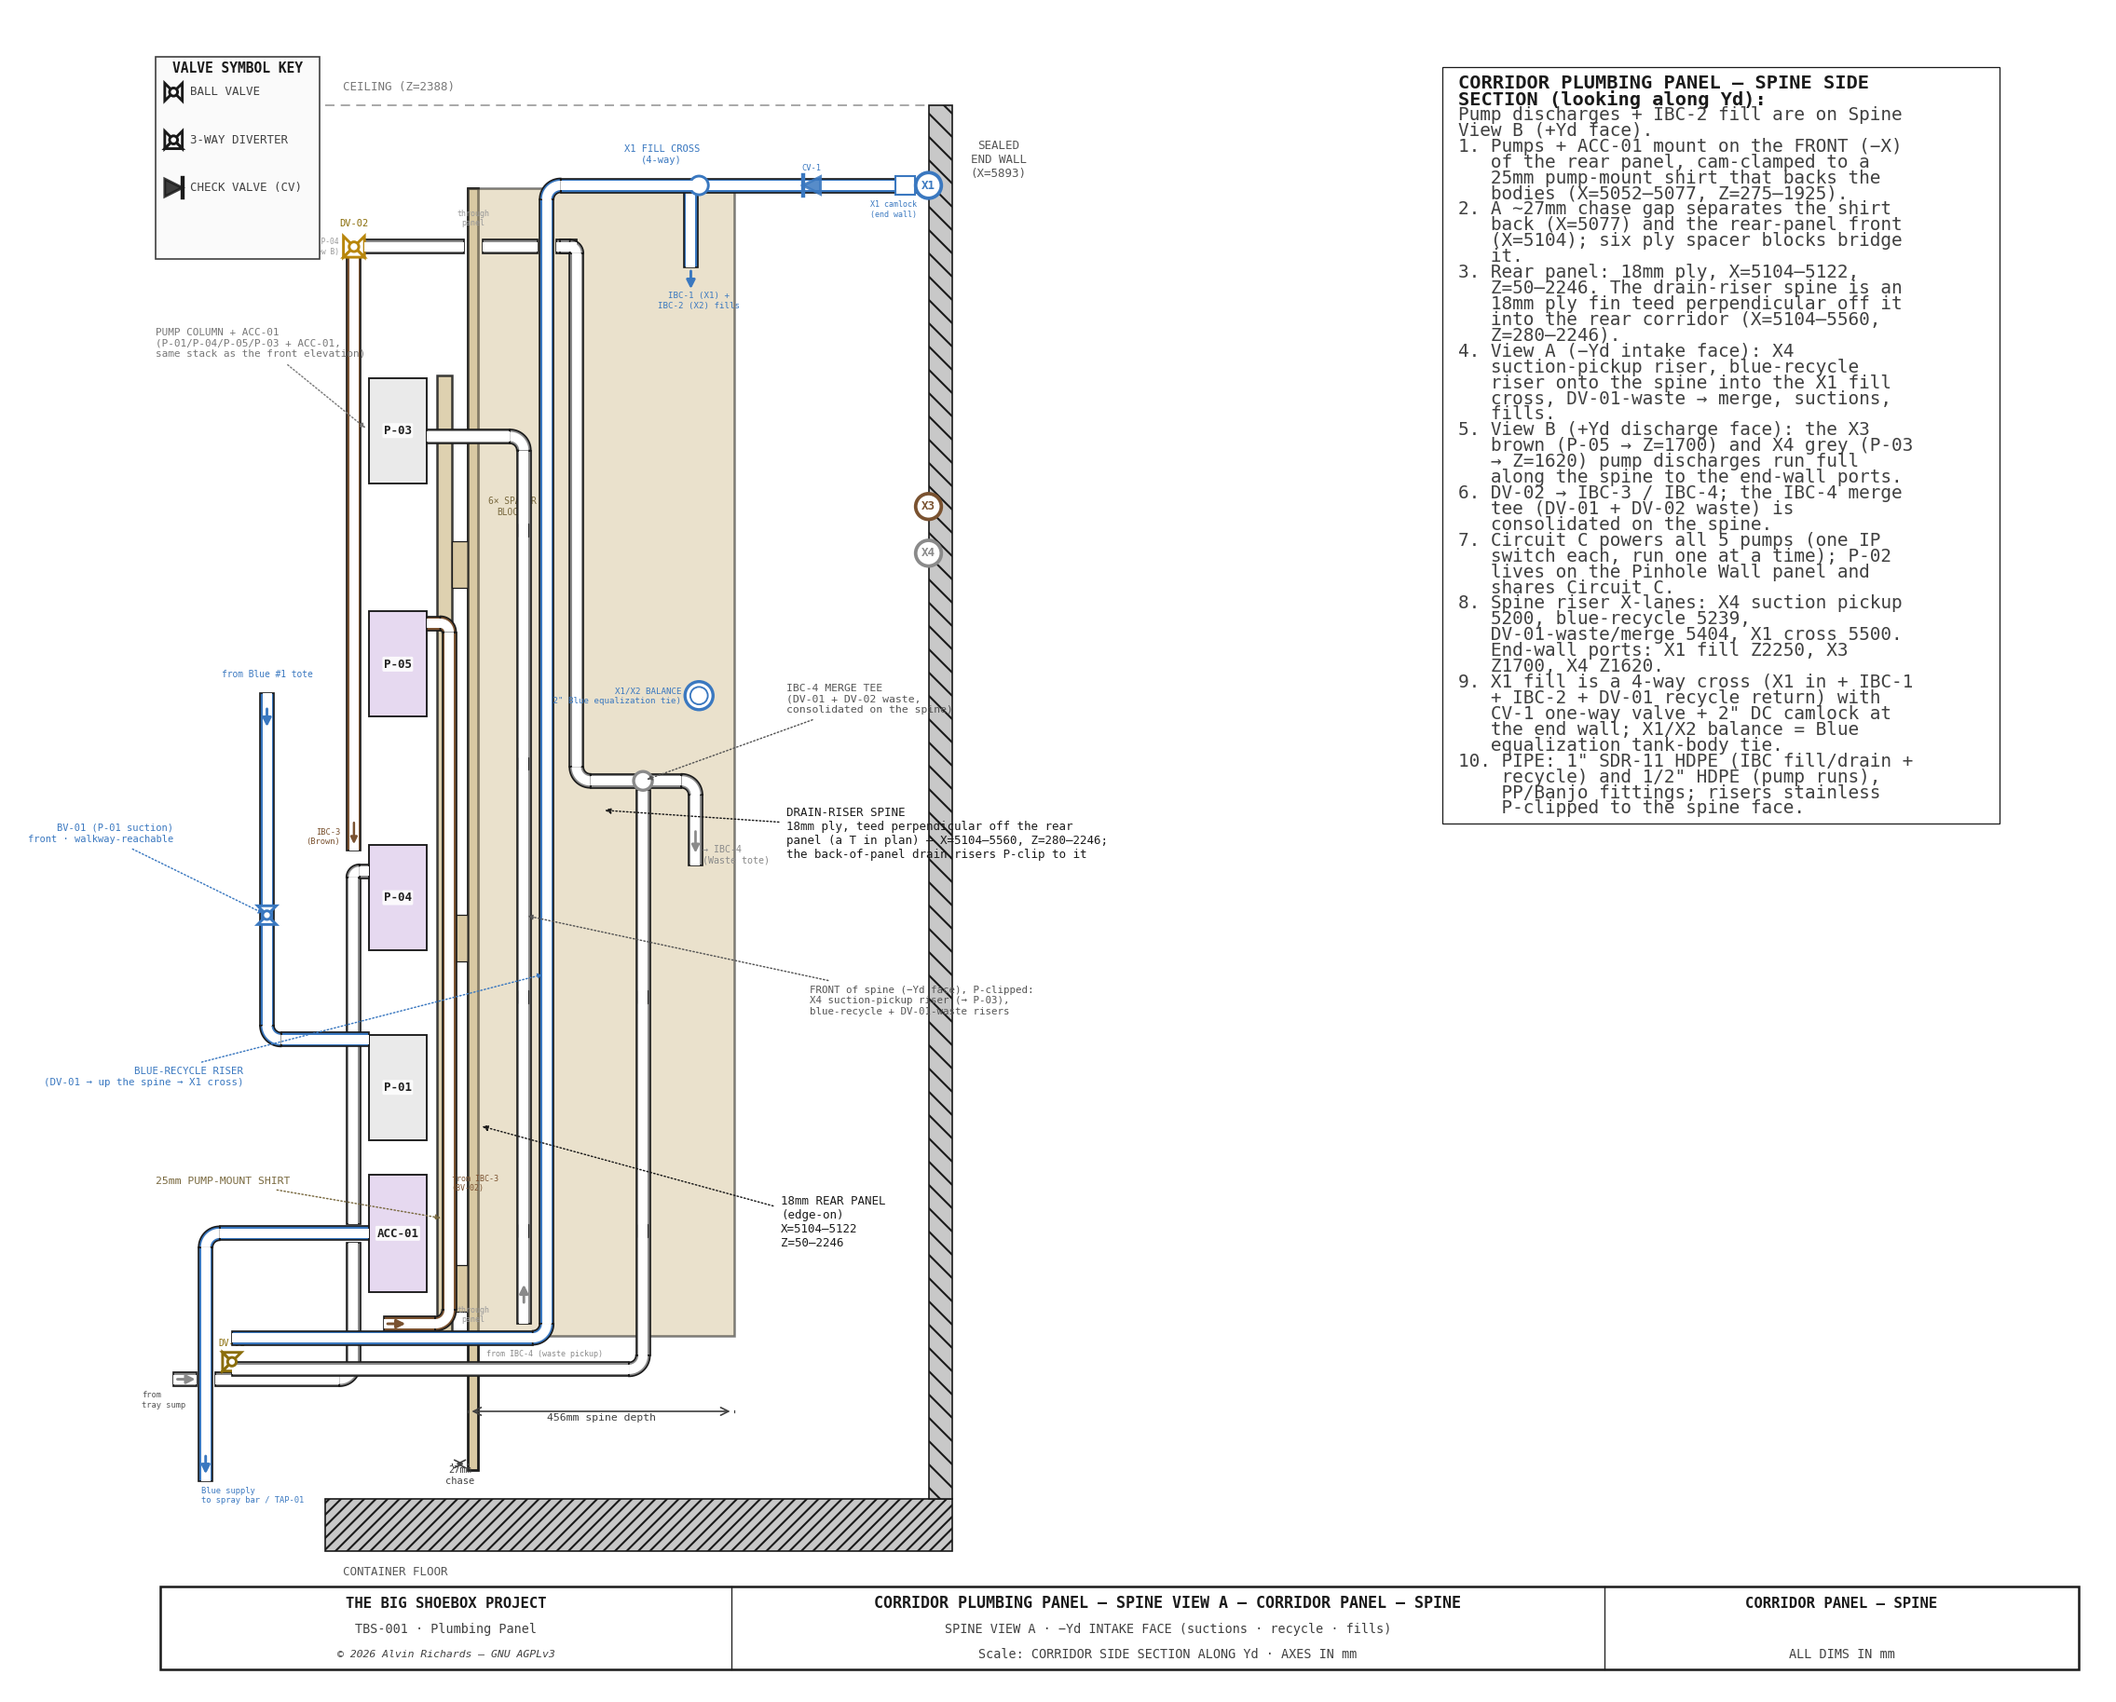
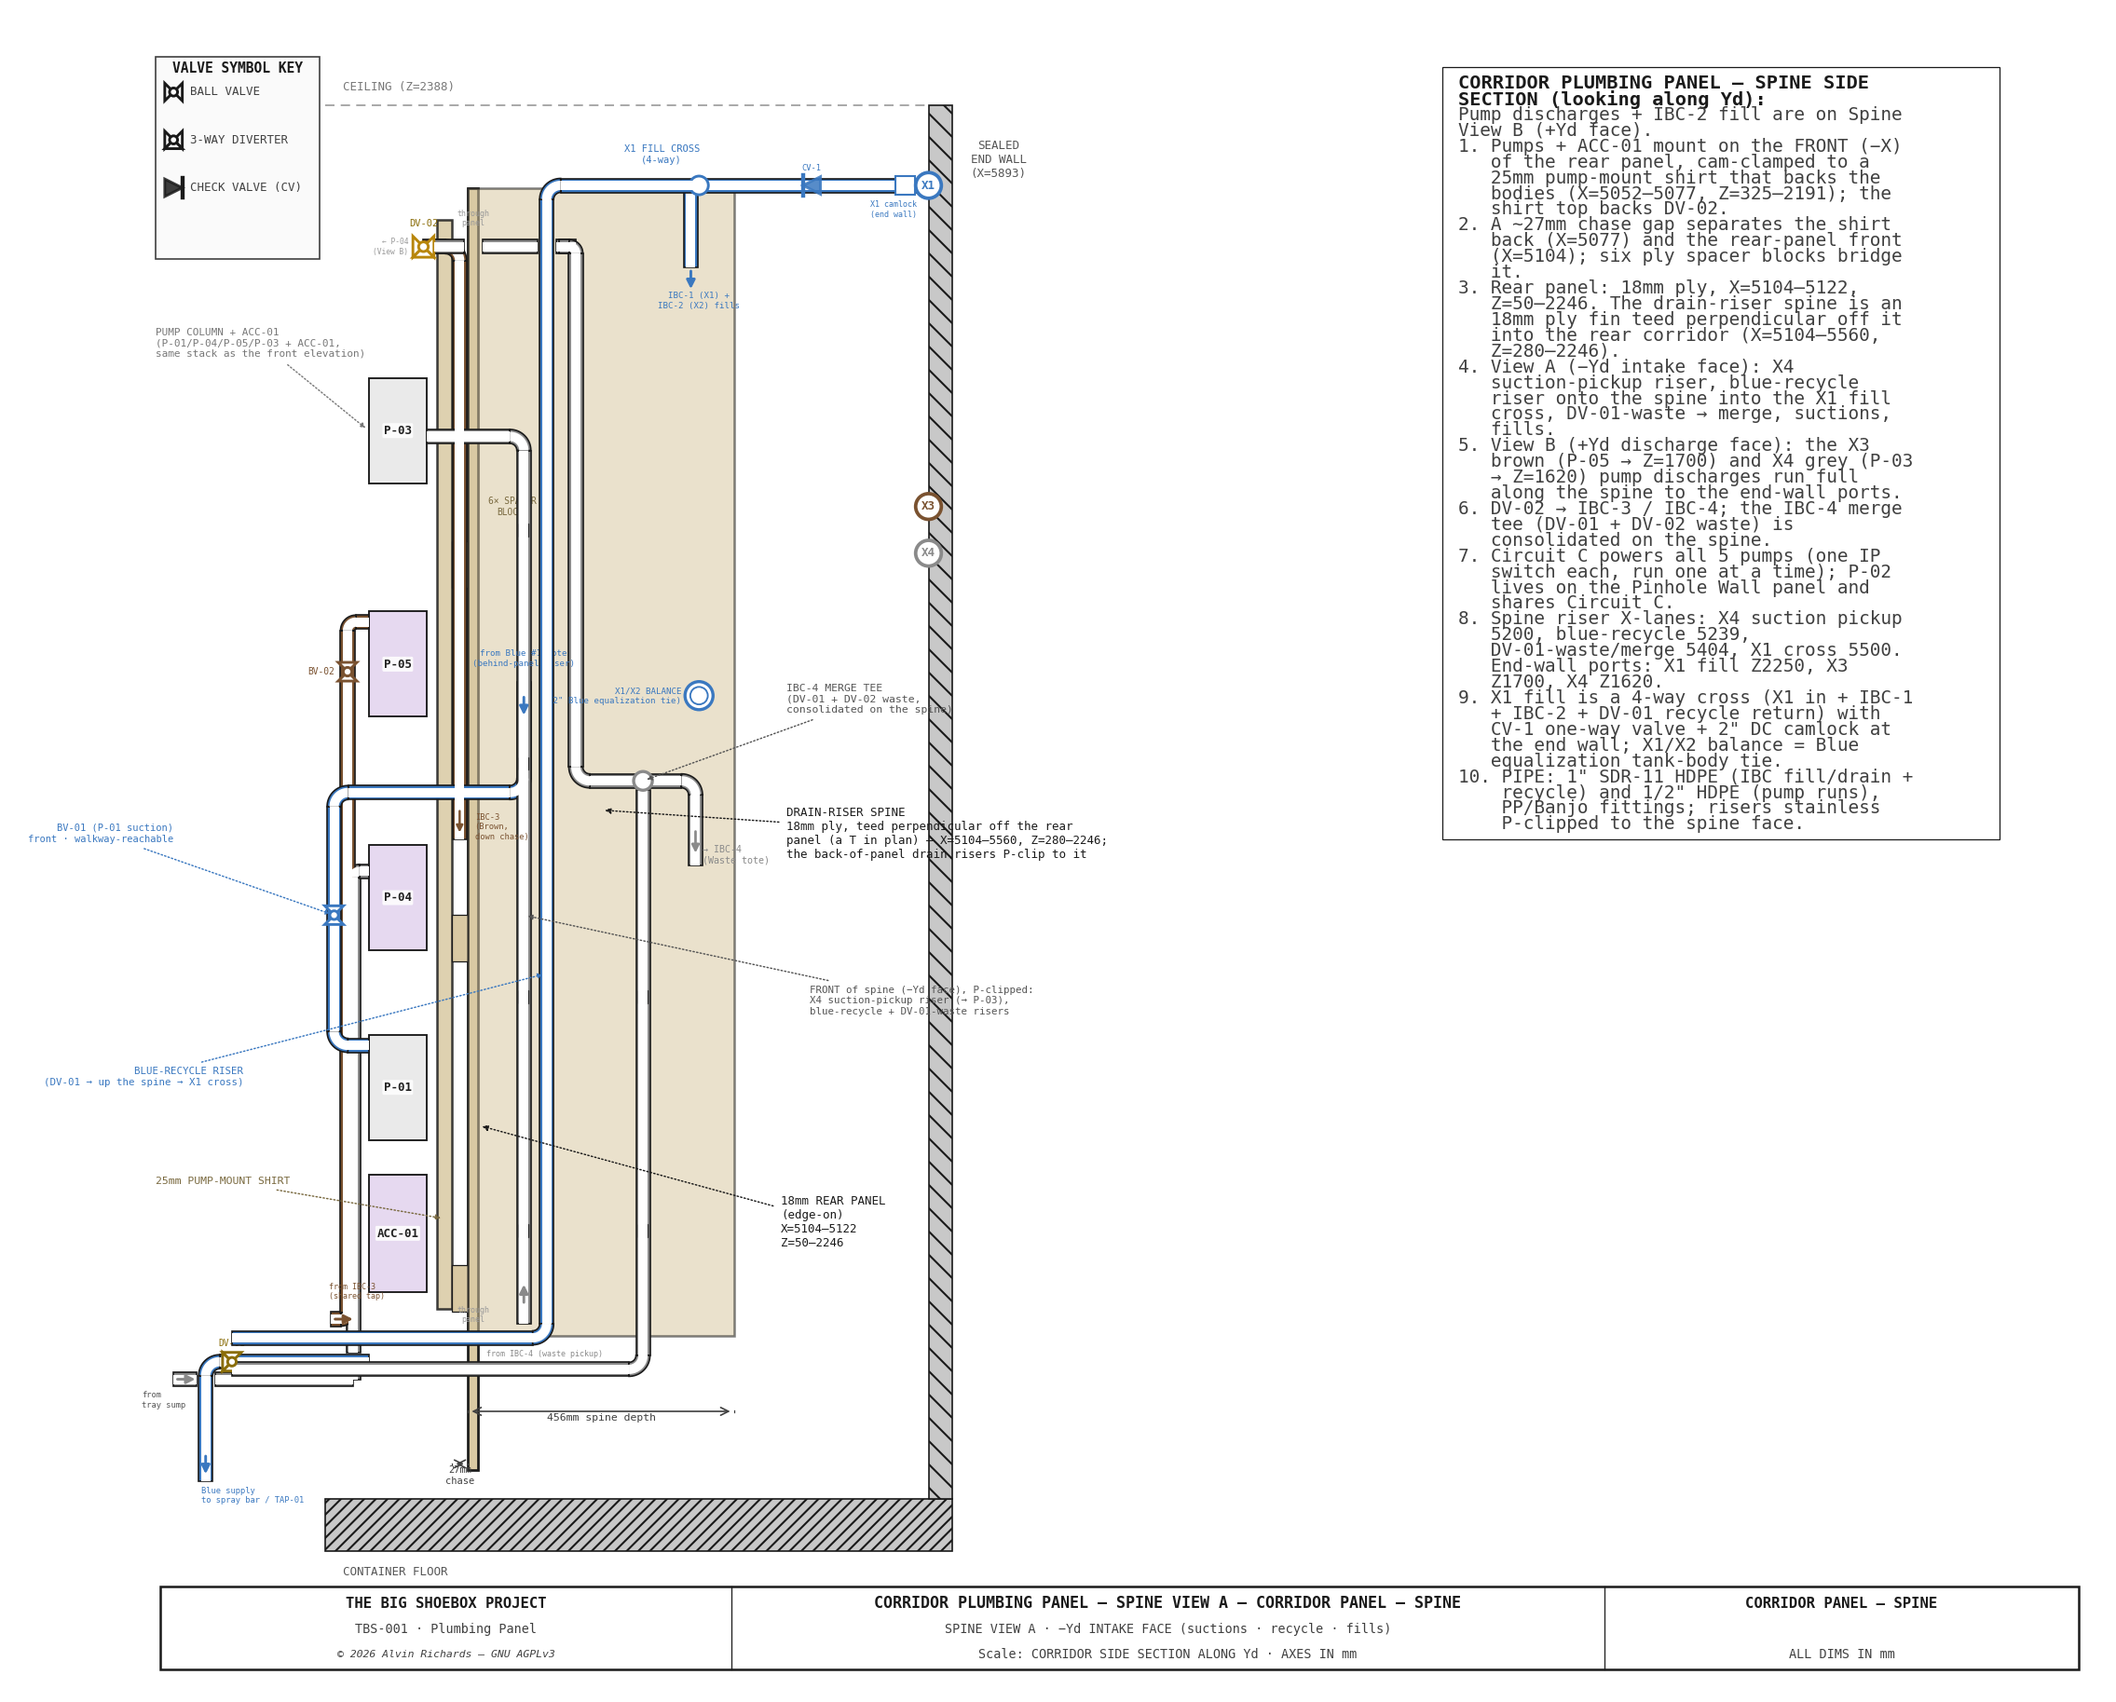
2D: cascade corridor routing into spine View A/B
Sync the spine side-sections to this session's 3D corridor changes (the
2D hardcodes geometry that must match massing_corridor_panel.py):

- DV02X 4909 -> 5028 (DV-02 mounted on the shirt); symbol + 3 legs follow.
- Shirt Z 275-1925 -> 325-2191 (bottom shortened, top raised to back DV-02).
- DV-02 brown output: straight down-port drop -> +X into the shirt/panel
  chase then down.
- BV-01 4760 -> 4875; blue P-01 suction redrawn as a forward access loop ->
  behind-panel riser (x5200) -> tote.
- BV-02 flipped to x4898 (operator side) + valve symbol added; brown tap
  start z300 -> 308.
- Blue supply trunk crossing z455 -> 235; P-04 suction gap-breaks realigned.
- Notes + stale comments updated.

Water-system schematic is topological (connectivity unchanged) - no edit.
Existing diagrams regenerated; no gallery registration needed.

diff --git a/src/generators/generate_panel_layout.py b/src/generators/generate_panel_layout.py
@@ -923,7 +923,8 @@ C_WALLB  = "#C8C8C8"
 PANX   = 5104                     # rear-panel front face (pumps hang -X off it)
 PANX1  = 5122                     # rear-panel rear face (18mm ply)
 SHIRTX0, SHIRTX1 = 5052, 5077     # 25mm pump-mount shirt (in FRONT of the panel)
-SHIRT_ZB, SHIRT_ZT = 275, 1925    # shirt Z extent
+SHIRT_ZB, SHIRT_ZT = 325, 2191    # shirt Z extent (bottom shortened to 325 to clear the
+                                  # raised P-05 inlet elbow; top raised to back DV-02 at DV_Z+DVB)
 SPX1   = 5560                     # drain-riser spine rear (X5104–5560)
 SPINE_ZB, SPINE_ZT = 280, 2246    # spine Z extent
 PAN_ZB, PAN_ZT = 50, 2246         # rear-panel Z extent
@@ -933,7 +934,7 @@ RX4    = 5200                     # X4 waste riser X (3D)
 RX_BLUE = 5239                    # blue-recycle riser X (onto the spine, to X1 cross)
 X1X    = 5500                     # X1 fill cross X (3D X1_TEE_X)
 MERGEX = 5404                     # IBC-4 merge tee X (3D MERGE4[0])
-DV02X  = 4909                     # 3W-DV-02 X (3D DV02X = PXC-75)
+DV02X  = 5028                     # 3W-DV-02 X (3D DV02X = SHIRT_X − DVB/2 = 5028.5; PXC mounts DV-02 on the shirt front)
 # End-wall port heights (3D drains_ports): X1 fill high, X3 Z1700, X4 Z1620
 X1_PORT_Z, X3_PORT_Z, X4_PORT_Z = EXT_FILL_1_H, 1700, 1620
 # Pump / ACC stack on the shirt front (single column, projected along Yd)
@@ -1119,13 +1120,17 @@ def spine_view(side):
         axb.text(DV01X, 258, "DV-01", fontsize=4.6, ha="center",
                  va="bottom", color="#8A6D08", zorder=13, **FB)
         # P-01 suction: P-01 IN → −X to BV-01 (front of the corridor, walkway-
-        # reachable, Z≈1000) → up toward the Blue tote.
-        BV01X = 4760
-        _pipe([PUMP_FRONT_X, BV01X, BV01X], [787, 787, 1380], C_BLUEB, zorder=11)
+        # reachable, Z≈1000) → UP the front vertical to the loop top → +X back
+        # through the shirt + panel → up the behind-panel riser to the Blue tote.
+        BV01X = 4875                                       # 3D bvx = FRONT_X+221
+        BLUE_BEHIND_X = 5200                               # 3D beh_x — behind-panel riser
+        BLUE_LOOPZ = 1210                                  # 3D loopz — loop top (P-04↔P-05 gap)
+        _pipe([PUMP_FRONT_X, BV01X, BV01X, BLUE_BEHIND_X, BLUE_BEHIND_X],
+              [777, 777, BLUE_LOOPZ, BLUE_LOOPZ, 1400], C_BLUEB, zorder=11)
         valve_ball(axb, BV01X, 1000, 16, C_BLUEB, vert=True)
-        _flowhead(BV01X, 1360, "down", C_BLUEB)            # suction: Blue #1 tote → P-01
-        axb.text(BV01X, 1404, "from Blue #1 tote", fontsize=4.6, ha="center", va="bottom",
-                 color=C_BLUEB, zorder=13, **FB)
+        _flowhead(BLUE_BEHIND_X, 1380, "down", C_BLUEB)    # suction: Blue #1 tote → P-01
+        axb.text(BLUE_BEHIND_X, 1424, "from Blue #1 tote\n(behind-panel riser)", fontsize=4.4,
+                 ha="center", va="bottom", color=C_BLUEB, zorder=13, **FB)
         leader(axb, BV01X, 1000, 4600, 1140, "BV-01 (P-01 suction)\nfront · walkway-reachable",
                color=C_BLUEB, fs=5, ha="right", va="center", arrow_style="-|>", font=FB)
         # X4 suction PICKUP riser climbs the spine from the floor pickup to P-03.
@@ -1144,56 +1149,72 @@ def spine_view(side):
         # → IBC-1 (X1) fill stub off the cross (water continues down to IBC-1, off-section).
         _pipe([X1X - 14, X1X - 14], [X1_PORT_Z, X1_PORT_Z - 140], C_BLUEB, zorder=11)
         _flowhead(X1X - 14, X1_PORT_Z - 140, "down", C_BLUEB)   # fill: → IBC-1 tote (below)
-        # DV-02 — tray-drain diverter above the pump column.  Its input is the
-        # P-04 discharge (rear +Yd face, Spine View B); the two outputs sit on
-        # this −Yd face: BROWN drops to IBC-3 (down port), WASTE leaves the
-        # right port to the IBC-4 merge tee.  Symbol centred on the junction so
-        # both legs land on their ports.
+        # DV-02 — tray-drain diverter above the pump column (3D: run along Yd,
+        # branch z−).  Its input is the P-04 discharge (rear +Yd face, Spine View
+        # B), arriving at the junction.  Both outputs sit on this −Yd face and
+        # leave toward +X: BROWN runs +X into the shirt↔panel chase then drops to
+        # IBC-3; WASTE runs +X then drops to the IBC-4 merge tee.  DV-02 is now
+        # mounted on the raised shirt front (X5028).  Symbol centred on the junction.
         valve_3way(axb, DV02X, 2145, 18, "#B8860B", ports=("left", "right", "down"))
         axb.text(DV02X, 2145 + 32, "DV-02", fontsize=5, ha="center", va="bottom",
                  color="#8A6D08", zorder=14, **FB)
         axb.text(DV02X - 26, 2145, "← P-04\n(View B)", fontsize=3.8, ha="right",
                  va="center", color="#999", zorder=13, **FB)
-        # DV-02 BROWN output → IBC-3 (Brown): drops straight off the DOWN port.
-        _pipe([DV02X, DV02X], [2127, 1110], C_BROWNB, zorder=10)
-        axb.annotate("", xy=(DV02X, 1115), xytext=(DV02X, 1165),
+        # DV-02 BROWN output → IBC-3 (Brown): leaves the −Yd run port, runs +X into
+        # the ~27mm shirt↔panel chase (X≈5090), then DROPS down the chase to the
+        # IBC-3 entry level. (3D: down off the run port, +X to the chase, drop.)
+        BROWN_CHASE_X = 5090
+        _pipe([DV02X, BROWN_CHASE_X, BROWN_CHASE_X], [2145, 2145, 1130], C_BROWNB, zorder=10)
+        axb.annotate("", xy=(BROWN_CHASE_X, 1135), xytext=(BROWN_CHASE_X, 1185),
                      arrowprops=dict(arrowstyle="-|>", lw=1.2, mutation_scale=7, color=C_BROWNB), zorder=12)
-        axb.text(DV02X - 24, 1150, "IBC-3\n(Brown)", fontsize=4.2, ha="right", va="top",
+        axb.text(BROWN_CHASE_X + 26, 1175, "IBC-3\n(Brown,\ndown chase)", fontsize=4.2, ha="left", va="top",
                  color=C_BROWNB, zorder=13, **FB)
-        # DV-02 WASTE output → leaves the RIGHT port, PENETRATES the rear panel
-        # near the spine top, then DROPS at X5290 into the merge tee's LEFT side.
-        _hpipe(2145, DV02X + 18, 5290, C_WASTEB, zorder=11, crosses=(PANX + 9, RX_BLUE))
+        # DV-02 WASTE output → leaves the +Yd run port, PENETRATES the rear panel
+        # near the spine top, then DROPS at X5289 (3D dvwx = MERGE4[0]−115) into the
+        # merge tee's LEFT side.
+        _hpipe(2145, DV02X + 18, 5289, C_WASTEB, zorder=11, crosses=(PANX + 9, RX_BLUE))
         axb.text(PANX + 9, 2178, "through\npanel", fontsize=4.0, ha="center", va="bottom",
                  color="#999", zorder=12, **FB)
-        # Lead the drop in from a short horizontal (from 5262, clear of the blue-
-        # riser crossing gap) so the top corner at (5290,2145) is an INTERIOR
+        # Lead the drop in from a short horizontal (from 5261, clear of the blue-
+        # riser crossing gap) so the top corner at (5289,2145) is an INTERIOR
         # vertex and draws an elbow fitting — the _hpipe ends there straight, so
         # without this the left turn into the DV-02 horizontal had no elbow.
-        _pipe([5262, 5290, 5290, MERGEX], [2145, 2145, 1230, 1230], C_WASTEB, zorder=11)
+        _pipe([5261, 5289, 5289, MERGEX], [2145, 2145, 1230, 1230], C_WASTEB, zorder=11)
         # IBC-4 (Waste) tote entry — the merge tee's RIGHT pipe.
         _pipe([MERGEX, 5494, 5494], [1230, 1230, 1085], C_WASTEB, zorder=11)
         axb.annotate("", xy=(5494, 1100), xytext=(5494, 1150),
                      arrowprops=dict(arrowstyle="-|>", lw=1.3, mutation_scale=8, color=C_WASTEB), zorder=12)
         axb.text(5506, 1120, "→ IBC-4\n(Waste tote)", fontsize=4.8, ha="left", va="top",
                  color=C_WASTEB, zorder=13, **FB)
-        # ACC-01 OUT → Blue supply trunk → spray bar / TAP-01.
-        _pipe([PUMP_FRONT_X, 4655, 4655], [455, 455, 30], C_BLUEB, zorder=9)
+        # ACC-01 OUT → Blue supply trunk → spray bar / TAP-01.  3D lowered the
+        # corridor-entry crossing to Z235 (DV-01's low lane) so the trunk is out
+        # of the operator's way at the mouth.
+        _pipe([PUMP_FRONT_X, 4655, 4655], [235, 235, 30], C_BLUEB, zorder=9)
         _flowhead(4655, 80, "down", C_BLUEB)              # supply: → spray bar / TAP-01 (off-section)
         axb.text(4648, -10, "Blue supply\nto spray bar / TAP-01", fontsize=4.2, ha="left",
                  va="bottom", color=C_BLUEB, zorder=12, **FB)
         # P-04 tray-drain SUCTION (← from the tray sump, far −X) up to P-04 IN.
-        # Gap-broken where it crosses the blue ACC-out / supply riser — at
-        # (4655,205) on the floor run and (4908,455) on the rise — so the blue
+        # Gap-broken where it crosses the blue supply trunk, now lowered to Z235:
+        # the floor run at Z205 crosses the blue VERTICAL drop at X4655, and the
+        # rise at X4908 crosses the blue HORIZONTAL trunk at Z235 — so the blue
         # reads continuous (skill_plumbing_drawing: the crossing run breaks).
-        _pipe([4600, 4655 - 16], [205, 205], C_WASTEB, zorder=9)
-        _pipe([4655 + 16, 4908, 4908], [205, 205, 455 - 16], C_WASTEB, zorder=9)
-        _pipe([4908, 4908, PUMP_FRONT_X], [455 + 16, 1075, 1075], C_WASTEB, zorder=9)
+        _pipe([4600, 4655 - 16], [205, 205], C_WASTEB, zorder=9)   # floor, before the blue drop at 4655
+        _pipe([4655 + 16, 4908], [205, 205], C_WASTEB, zorder=9)   # floor, after the blue drop
+        _pipe([4908, 4908], [205, 235 - 16], C_WASTEB, zorder=9)   # rise, up to the blue trunk crossing
+        _pipe([4908, 4908, PUMP_FRONT_X], [235 + 16, 1075, 1075], C_WASTEB, zorder=9)  # rise past blue, to P-04 IN
         _flowhead(4600, 205, "right", C_WASTEB)            # suction: tray sump → P-04
         axb.text(4546, 185, "from\ntray sump", fontsize=4.2, ha="left", va="top", color="#555", zorder=12, **FB)
         # P-05 brown-drain SUCTION (IBC-3 Brown tap via BV-02) up to P-05 IN.
-        _pipe([4960, 5072, 5072, PUMP_BACK_X], [300, 300, 1500, 1500], C_BROWNB, zorder=9)
-        _flowhead(4960, 300, "right", C_BROWNB)            # suction: IBC-3 (BV-02) → P-05
-        axb.text(5076, 540, "from IBC-3\n(BV-02)", fontsize=4.0, ha="left", va="center",
+        # 3D flipped the BV-02 riser to the OPERATOR side (X4898, was X5072 on the
+        # shirt); the shared brown tap also rose to Z308.  Tap → −X to the front
+        # riser (BV-02) → UP to the P-05 IN height → +X back into the pump.
+        BV02X = 4898                                       # 3D rx = PXC−86
+        _pipe([4870, BV02X, BV02X, PUMP_FRONT_X], [308, 308, 1502, 1502], C_BROWNB, zorder=9)
+        valve_ball(axb, BV02X, 1417, 16, C_BROWNB, vert=True)
+        axb.text(BV02X - 22, 1417, "BV-02", fontsize=4.6, ha="right", va="center",
+                 color=C_BROWNB, zorder=13, **FB)
+        _flowhead(4870, 308, "right", C_BROWNB)            # suction: IBC-3 tap → P-05
+        axb.text(4866, 340, "from IBC-3\n(shared tap)", fontsize=4.0, ha="left", va="bottom",
                  color=C_BROWNB, zorder=12, **FB)
         # P-clips fastening the −Yd-face spine risers.
         for rx, zt in [(RX4, 1800), (RX_BLUE, X1_PORT_Z), (MERGEX, 1214)]:
@@ -1260,7 +1281,7 @@ def spine_view(side):
     draw_notes(axb, [
         "CORRIDOR PLUMBING PANEL — SPINE SIDE SECTION (looking along Yd):",
         cross_note,
-        "1. Pumps + ACC-01 mount on the FRONT (−X) of the rear panel, cam-clamped to a 25mm pump-mount shirt that backs the bodies (X=5052–5077, Z=275–1925).",
+        "1. Pumps + ACC-01 mount on the FRONT (−X) of the rear panel, cam-clamped to a 25mm pump-mount shirt that backs the bodies (X=5052–5077, Z=325–2191); the shirt top backs DV-02.",
         "2. A ~27mm chase gap separates the shirt back (X=5077) and the rear-panel front (X=5104); six ply spacer blocks bridge it.",
         "3. Rear panel: 18mm ply, X=5104–5122, Z=50–2246. The drain-riser spine is an 18mm ply fin teed perpendicular off it into the rear corridor (X=5104–5560, Z=280–2246).",
         "4. View A (−Yd intake face): X4 suction-pickup riser, blue-recycle riser onto the spine into the X1 fill cross, DV-01-waste → merge, suctions, fills.",
